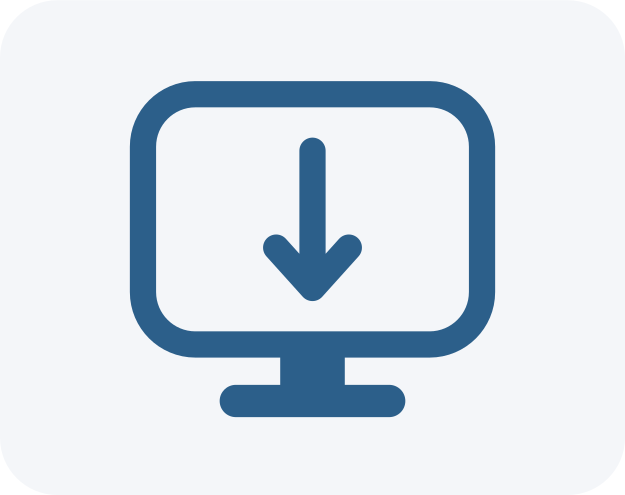
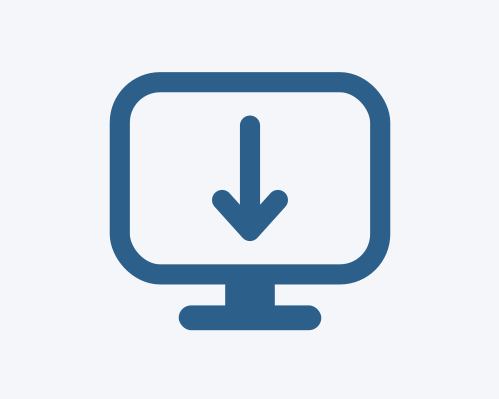
아이콘: 올려준 이미지를 그대로 크롭 사용 · 버튼 배경 꽉 채움 · 목록 버튼 축소
- render_icons.py: 제공된 capture-icons.png에서 카드 7개를 자동 크롭(원본 픽셀/비율 유지), 흰 여백은 카드색으로 채움 → SVG 렌더 의존성 제거
- Icon.TButton 배경을 카드색(#F4F6F9)으로 → 아이콘 배경이 버튼에 꽉 참
- 파일 목록 버튼(새로고침/열기/복사) 폭 축소(Path.TButton + width)

diff --git a/source/render_icons.py b/source/render_icons.py
@@ -1,64 +1,62 @@
 # -*- coding: utf-8 -*-
 """
-제공된 SVG 아이콘 세트(capture-icons.svg)를 '변형 없이' 그대로 렌더링해
+제공된 아이콘 이미지(capture-icons.png)를 '변형 없이' 그대로 사용해
 7개 캡처 버튼용 PNG(assets/cap_{mode}.png)를 생성한다.
 
-- 각 카드(240x190, 원본 가로세로 비율 유지)를 개별로 렌더
-- 카드 배경(#F4F6F9 라운드) + 글리프만 남기고 하단 텍스트는 제외
-- 빌드 시 1회 실행 → 런타임은 PNG만 로드(svglib/reportlab 런타임 의존성 없음)
-
-필요 패키지(빌드 환경): svglib, reportlab, rlPyCairo, pycairo
+- 원본 이미지에서 카드 경계를 자동 감지해 7개로 분할(크롭)
+- 원본 픽셀/가로세로 비율을 그대로 유지
+- 의존성: numpy, Pillow (앱과 동일 — 추가 빌드 의존성 없음)
 """
 
-import io
 import os
-import xml.etree.ElementTree as ET
+import numpy as np
+from PIL import Image
 
-SVG_NS = "http://www.w3.org/2000/svg"
-NS = "{%s}" % SVG_NS
 HERE = os.path.dirname(os.path.abspath(__file__))
-SRC_SVG = os.path.join(HERE, "capture-icons.svg")
+SRC_IMG = os.path.join(HERE, "capture-icons.png")
 OUT_DIR = os.path.join(HERE, "assets")
 
-# 원본 SVG의 카드 순서 → 앱 모드
+# 원본 이미지의 카드 순서 → 앱 모드
 MODES = ["scroll_display", "scroll_window", "scroll_region",
          "shot_all", "shot_display", "shot_window", "shot_region"]
 
-CARD_W, CARD_H, CARD_RX, CARD_BG = 240, 190, 22, "#F4F6F9"
+
+def _runs(flags, gap=30):
+    idx = np.where(flags)[0]
+    groups, s, p = [], idx[0], idx[0]
+    for i in idx[1:]:
+        if i > p + gap:
+            groups.append((int(s), int(p)))
+            s = i
+        p = i
+    groups.append((int(s), int(p)))
+    return groups
 
 
-def build_card_svgs():
-    """원본 SVG에서 카드별 (mode, svg_bytes) 목록을 만든다(텍스트 제외)."""
-    ET.register_namespace("", SVG_NS)
-    root = ET.parse(SRC_SVG).getroot()
-    cards = root.findall(NS + "g")           # 7개 카드 g
-    out = []
-    for card, mode in zip(cards, MODES):
-        glyph = card.find(NS + "g")          # 카드 안 글리프 g (translate(120,95)...)
-        svg = ET.Element(NS + "svg", {
-            "xmlns": SVG_NS,
-            "viewBox": f"0 0 {CARD_W} {CARD_H}",
-            "width": str(CARD_W), "height": str(CARD_H),
-        })
-        ET.SubElement(svg, NS + "rect", {
-            "x": "0", "y": "0", "width": str(CARD_W), "height": str(CARD_H),
-            "rx": str(CARD_RX), "fill": CARD_BG,
-        })
-        svg.append(glyph)                    # 글리프 그대로 삽입(변형 없음)
-        out.append((mode, ET.tostring(svg, encoding="utf-8")))
-    return out
+def render(pad=10):
+    im = Image.open(SRC_IMG).convert("RGB")
+    a = np.array(im)
+    H, W = a.shape[:2]
+    mask = (a < 250).any(axis=2)             # 카드(연회색)+글리프 영역
+    col_runs = _runs(mask.any(axis=0))       # 가로로 카드 7개 분리
+    if len(col_runs) != len(MODES):
+        raise RuntimeError(f"카드 {len(MODES)}개를 찾지 못함: {len(col_runs)}")
+    ys = np.where(mask.any(axis=1))[0]
+    y0, y1 = int(ys.min()), int(ys.max())
 
-
-def render(dpi=250):
-    from svglib.svglib import svg2rlg
-    from reportlab.graphics import renderPM
     os.makedirs(OUT_DIR, exist_ok=True)
     made = []
-    for mode, svg_bytes in build_card_svgs():
-        drawing = svg2rlg(io.BytesIO(svg_bytes))
-        out_png = os.path.join(OUT_DIR, f"cap_{mode}.png")
-        renderPM.drawToFile(drawing, out_png, fmt="PNG", dpi=dpi)
-        made.append(out_png)
+    CARD = (244, 246, 249)                   # 카드 배경색 (#F4F6F9)
+    for (x0, x1), mode in zip(col_runs, MODES):
+        box = (max(0, x0 - pad), max(0, y0 - pad),
+               min(W, x1 + pad), min(H, y1 + pad))
+        c = np.array(im.crop(box))
+        # 카드 밖 흰 여백/라운드 코너를 카드색으로 채움 → 버튼에 꽉 차게
+        whitish = (c[:, :, 0] >= 250) & (c[:, :, 1] >= 250) & (c[:, :, 2] >= 250)
+        c[whitish] = CARD
+        out = os.path.join(OUT_DIR, f"cap_{mode}.png")
+        Image.fromarray(c).save(out)
+        made.append(out)
     return made
 
 

diff --git a/source/scroll_capture.py b/source/scroll_capture.py
@@ -1842,6 +1842,7 @@ MC = {
     "muted": "#757575",          # Muted Gray
     "border": "#E0E0E0",         # Line Gray
     "list_hover": "#E1F5FE",     # 매우 연한 블루
+    "card": "#F4F6F9",           # 아이콘 카드 배경색
     "thumb": "#BDBDBD",
     "thumb_hover": "#9E9E9E",
     "white": "#FFFFFF",
@@ -1982,13 +1983,13 @@ class App:
         st.map("Path.TButton",
                background=[("active", C["surface"]), ("pressed", C["surface"])],
                bordercolor=[("active", C["primary"])])
-        # 캡처 아이콘 버튼(플랫, 흰 배경, hover 시 연블루)
-        st.configure("Icon.TButton", background=C["white"], borderwidth=1,
+        # 캡처 아이콘 버튼(카드 배경색으로 꽉 채움, hover 시 테두리 강조)
+        st.configure("Icon.TButton", background=C["card"], borderwidth=1,
                      bordercolor=C["border"], relief="solid", padding=0,
-                     focuscolor=C["white"])
+                     focuscolor=C["card"])
         st.map("Icon.TButton",
-               background=[("active", C["list_hover"]),
-                           ("pressed", C["list_hover"]),
+               background=[("active", C["card"]),
+                           ("pressed", C["card"]),
                            ("disabled", C["surface"])],
                bordercolor=[("active", C["primary"])])
         # 얇은 스크롤바
@@ -2259,8 +2260,8 @@ class App:
         listf.pack(fill="both", expand=True, padx=14, pady=(0, 6))
         head = ttk.Frame(listf)
         head.pack(fill="x")
-        ttk.Button(head, text=self.t("btn_refresh"), style="Secondary.TButton",
-                   command=self.refresh_list).pack(side="right")
+        ttk.Button(head, text=self.t("btn_refresh"), style="Path.TButton",
+                   width=6, command=self.refresh_list).pack(side="right")
 
         canvas = tk.Canvas(listf, borderwidth=0, highlightthickness=0,
                            bg=MC["bg"], height=345)   # 약 4개 항목이 보이는 높이
@@ -2546,10 +2547,10 @@ class App:
         # 열기 / 복사 버튼(세로 배치)
         btns = tk.Frame(inner, bg=C["white"])
         btns.pack(side="right")
-        ttk.Button(btns, text=self.t("btn_open_item"), style="Secondary.TButton",
-                   command=lambda p=path: os.startfile(p)).pack(anchor="e")
+        ttk.Button(btns, text=self.t("btn_open_item"), style="Path.TButton",
+                   width=5, command=lambda p=path: os.startfile(p)).pack(anchor="e")
         copy_btn = ttk.Button(btns, text=self.t("btn_copy"),
-                              style="Secondary.TButton")
+                              style="Path.TButton", width=5)
         copy_btn.config(command=lambda p=path, b=copy_btn: self._copy_image(p, b))
         copy_btn.pack(anchor="e", pady=(4, 0))
 

diff --git a/release/RELEASES.md b/release/RELEASES.md
@@ -32,3 +32,5 @@
 | v1.4.12 | 2026-07-24 00:05:02 | 설치 파일(Setup) | `ScrollCapture_Setup_v1.4.12.exe` | 68.5 MB |
 | v1.4.12 | 2026-07-24 00:31:56 | 설치 파일(Setup) | `ScrollCapture_Setup_v1.4.12.exe` | 68.5 MB |
 | v1.4.12 | 2026-07-24 00:45:02 | 설치 파일(Setup) | `ScrollCapture_Setup_v1.4.12.exe` | 68.5 MB |
+| v1.4.12 | 2026-07-24 00:54:57 | 설치 파일(Setup) | `ScrollCapture_Setup_v1.4.12.exe` | 68.5 MB |
+| v1.4.12 | 2026-07-24 01:00:04 | 설치 파일(Setup) | `ScrollCapture_Setup_v1.4.12.exe` | 68.5 MB |
